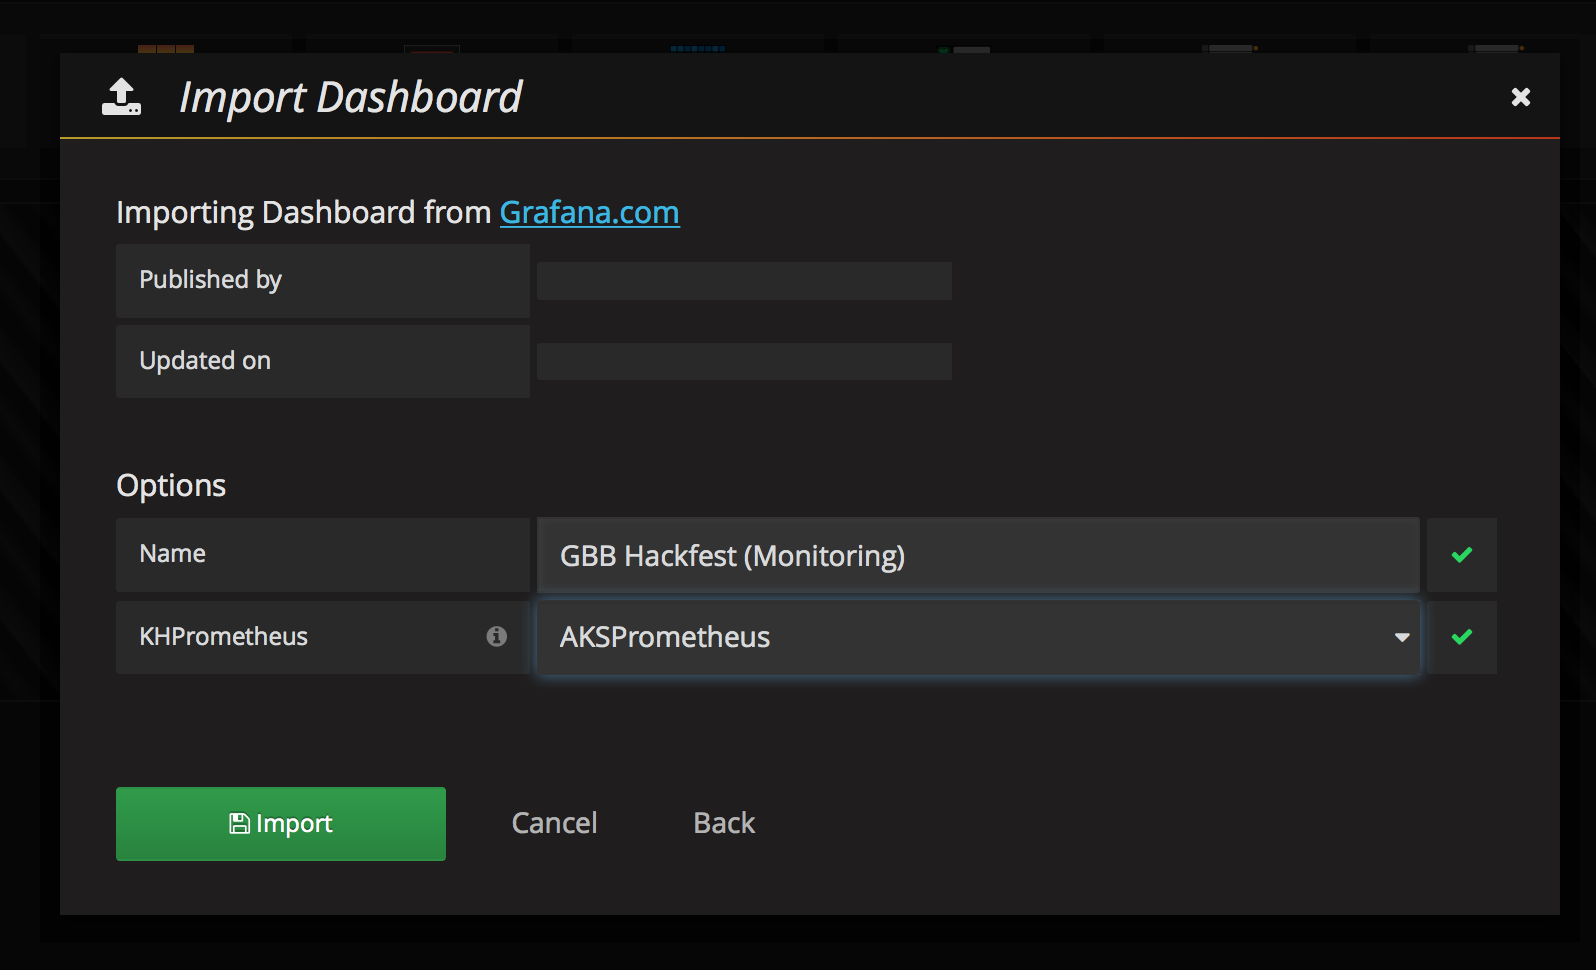
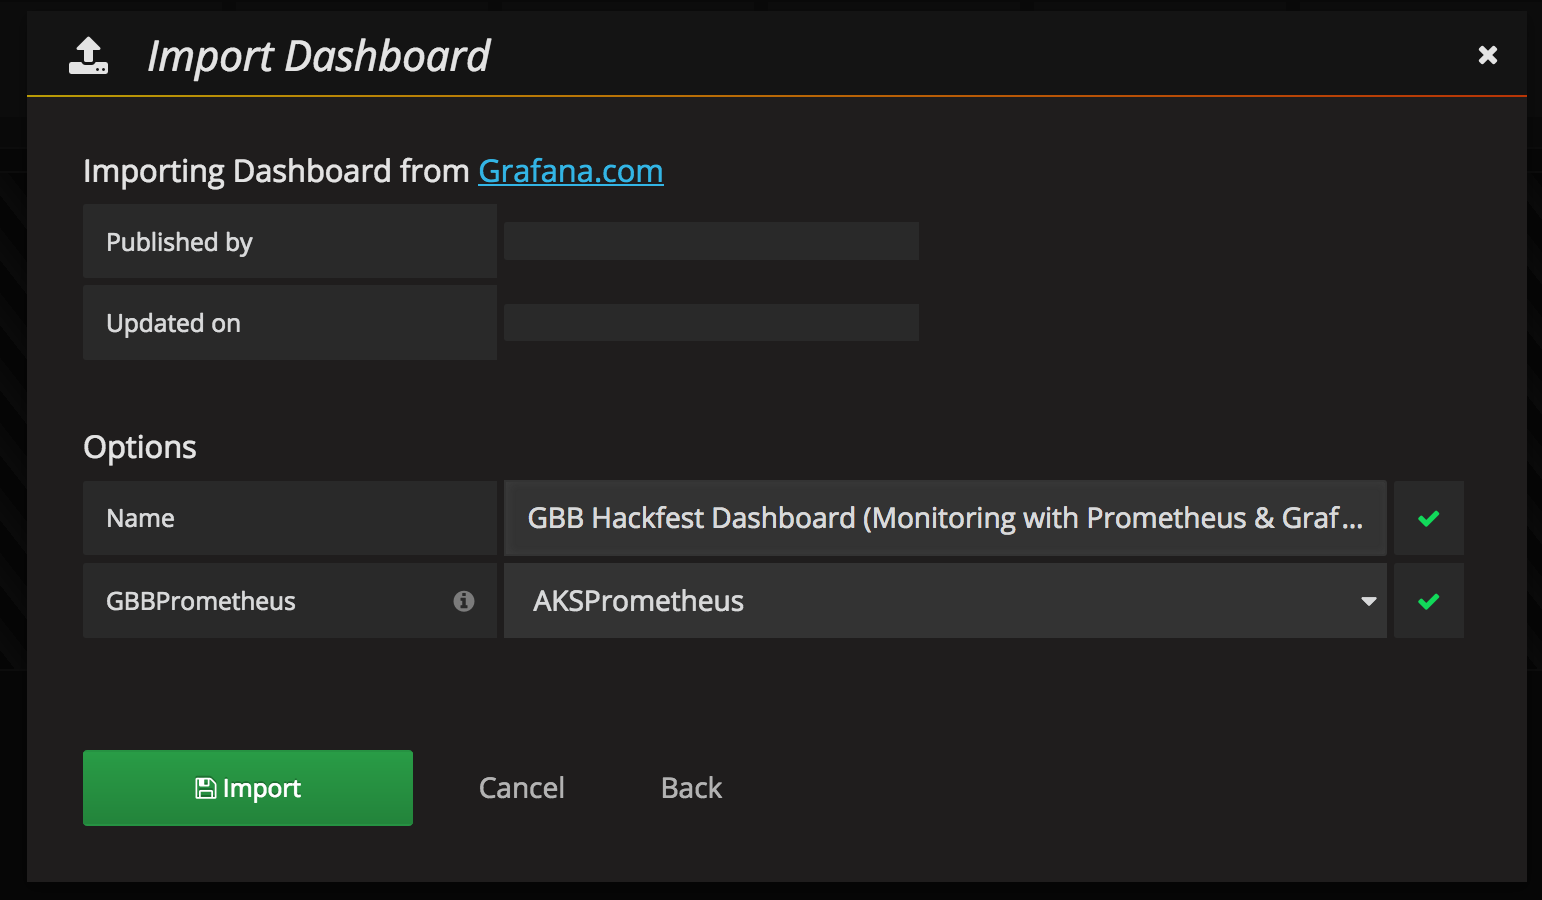
Updated some instructions to match repo updates. Fixed screen shot.

diff --git a/linux-container-workshop/hol_content/07_monitoring_k8s.md b/linux-container-workshop/hol_content/07_monitoring_k8s.md
@@ -33,8 +33,11 @@ Server: &version.Version{SemVer:"v2.7.2", GitCommit:"8478fb4fc723885b155c924d1c8
 Prometheus is a Cloud Native Computing Foundation (CNCF) project used to collect and process metrics. It collects metrics from configured targets, in our case it is a Kubernetes Cluster.
 
 1. Install Prometheus using Helm CLI
+
 * Create a file in your local directory named **prometheus-configforhelm.yaml** leveraging the file located [here](prometheus-configforhelm.yaml).
+* Switch to the `helper_files` directory and view the `prometheus-configforhelm.yaml` file. This configures Helm to install Prometheus with our desired settings.
 ```bash
+cd ./linux-container-workshop/helper_files
 # The following command will install Prometheus into the K8s cluster using custom settings.
 helm install --name gbbhackprometheus stable/prometheus -f prometheus-configforhelm.yaml
 ```
@@ -91,26 +94,25 @@ Use the EXTERNAL-IP value from the previous step and put that into your browser:
 ![](img/8-grafana_loggedin.png)
 
 2. Add Prometheus as a Data Source
-* If you recall from above, we exposed a number of K8s services, one of those services was the Prometheus Server. We are going to use that Service endpoint in our Data Service configuration. The Add Data Source screen should look something like the following:
+* If you recall from above, we exposed a number of K8s services, one of those services was the Prometheus Server. We are going to use that Service endpoint in our Data Service configuration. The Add Data Source screen should look something like the below screen shot.
+
+> Use `http://gbbhackprometheus-prometheus-server:9090` for the URL in the HTTP settings.
 
 ![](img/8-grafana_datasource.png)
 
 3. Validate Prometheus Data Source
 * Once you have filled in the values similar to the screenshot above, click the **Add** button and ensure no errors come back.
 4. Add K8s Monitoring Dashboard to Grafana
-* After the datasource has been added, it is now time to add a dashboard. Grafana dashboards can be shared on Grafana dashboards. Goto import dashboards viam the menu in the top left.
+* After the datasource has been added, it is now time to add a dashboard. Grafana dashboards can be shared on Grafana.com. Go to import dashboards viam the menu in the top left.
 
 ![](img/8-grafana_dashboardimport.png)
 
-
-* Use the file located [here](https://github.com/Azure/blackbelt-aks-hackfest/blob/master/linux-container-workshop/helper_files/gbb_hackfest_grafana_dashboard.json) to import the json dashboard configuration by clicking the **Upload File** button.
-
+* Click on the **Upload File** button and browse to the `gbb_hackfest_grafana_dashboard` in the `linux-container-workshop/helper_files` directory.
 
 ![](img/8-grafana_dashboardid.png)
 
 
-* Note the linkage to the datasource created above.
-
+* Set the datasource dropdown to the "AKSPrometheus" that was created in the previous step. 
 
 ![](img/8-grafana_dashboardsave.png)
 
